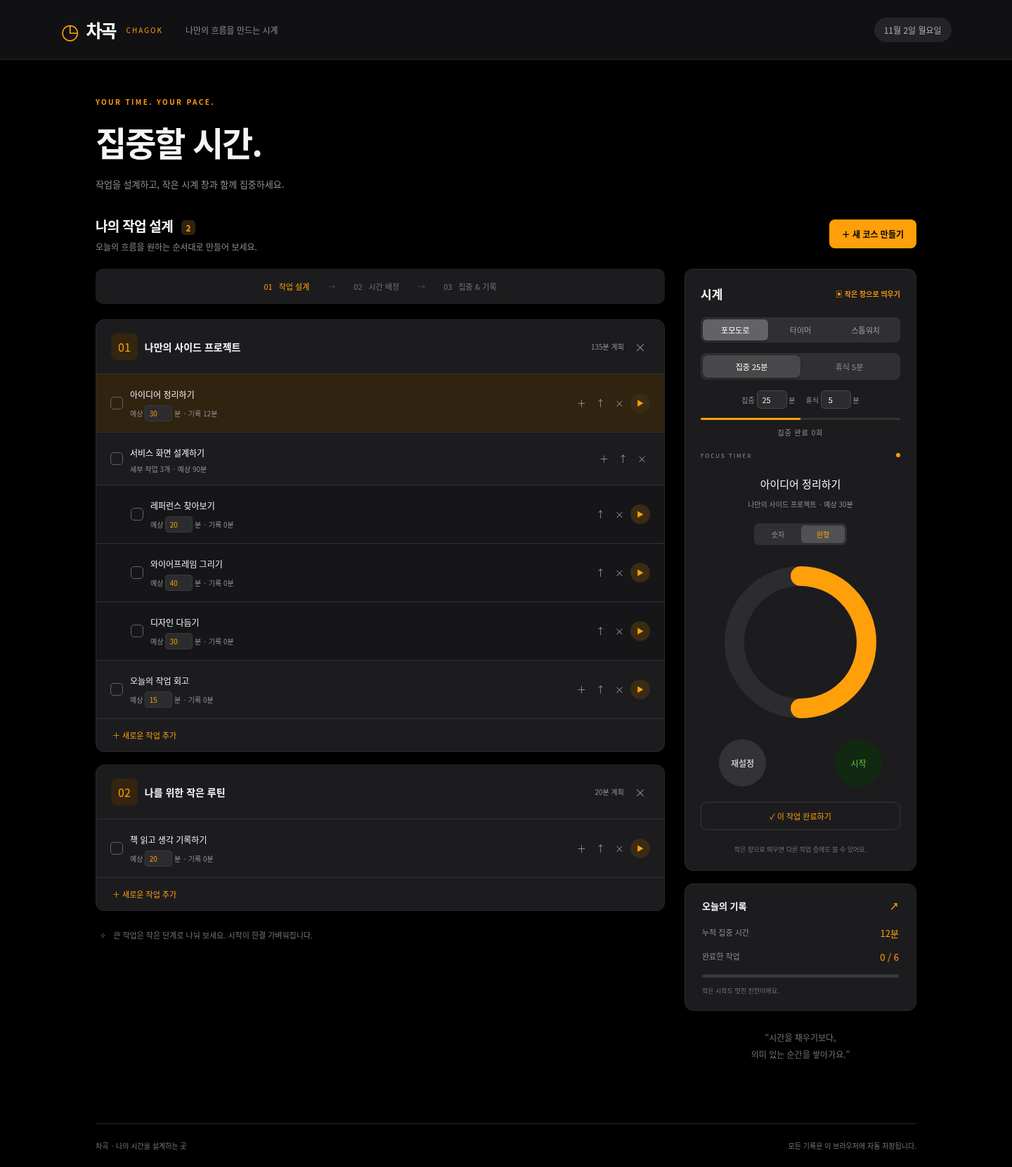
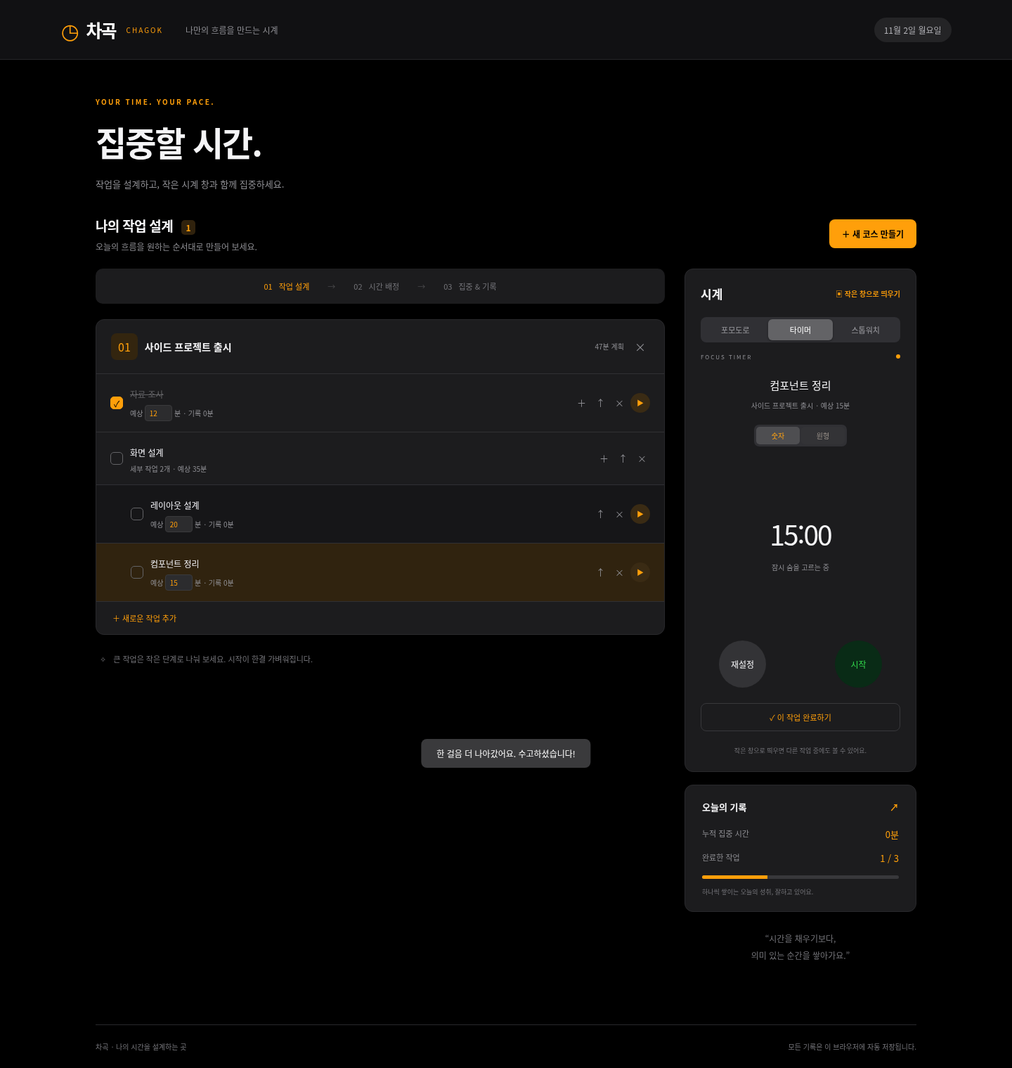
Make task planning and planned-duration execution the desktop default

diff --git a/app.js b/app.js
@@ -1,10 +1,10 @@
-import { createFloatingClock, updateRemainingRing } from './floating-window.js';
+import { createFloatingClock, updateRemainingRing, updateTaskPicker } from './floating-window.js';
 
 const $=s=>document.querySelector(s);
 let clockMode="pomodoro",floatingWindow=null;
 const uid=()=>crypto.randomUUID();
-const seed=()=>({courses:[{id:uid(),name:'나만의 사이드 프로젝트',tasks:[{id:uid(),name:'아이디어 정리하기',minutes:30,elapsed:0,done:false,children:[]},{id:uid(),name:'서비스 화면 설계하기',minutes:90,elapsed:0,done:false,children:[{id:uid(),name:'레퍼런스 찾아보기',minutes:20,elapsed:0,done:false,children:[]},{id:uid(),name:'와이어프레임 그리기',minutes:40,elapsed:0,done:false,children:[]},{id:uid(),name:'디자인 다듬기',minutes:30,elapsed:0,done:false,children:[]}]},{id:uid(),name:'오늘의 작업 회고',minutes:15,elapsed:0,done:false,children:[]}]},{id:uid(),name:'나를 위한 작은 루틴',tasks:[{id:uid(),name:'책 읽고 생각 기록하기',minutes:20,elapsed:0,done:false,children:[]}]}],active:null,started:null});
-let state;try{state=JSON.parse(localStorage.getItem('chagok-v1'))}catch{}if(!state?.courses)state=seed();
+let state;try{state=JSON.parse(localStorage.getItem('chagok-v1'))}catch{}if(!state?.courses)state={courses:[],active:null,started:null};
+clockMode=['timer','pomodoro','stopwatch'].includes(state.clockMode)?state.clockMode:(state.pomo?.started||state.pomo?.elapsed>0?'pomodoro':'timer');
 state.timerView = state.timerView === "circle" ? "circle" : "numeric";
 state.pomo ||= {phase:'focus',elapsed:0,started:null,rounds:0};
 state.pomo.focusMinutes ||= 25;state.pomo.breakMinutes ||= 5;
@@ -23,17 +23,18 @@ function pause(){if(state.pomo.started){state.pomo.elapsed=pomoSeconds();state.p
 function select(id){const t=find(id);if(t.children.length){toast('세부 작업을 선택해 주세요.');return}if(t.done){toast('완료 체크를 해제하면 다시 집중할 수 있어요.');return}pause();state.active=id;state.started=Date.now();if(clockMode==='pomodoro'){if(state.pomo.phase!=='focus'){state.pomo.phase='focus';state.pomo.elapsed=0}state.pomo.started=Date.now()}save();render()}
 function complete(id){const t=find(id);if(t.children.length){const done=!t.children.every(x=>x.done);if(t.children.some(x=>x.id===state.active))pause();t.children.forEach(x=>x.done=done);t.done=done}else{if(state.active===id)pause();t.done=!t.done}save();render()}
 function taskHTML(t,child=false){const done=t.children.length?t.children.every(x=>x.done):t.done;return `<div class="task ${child?'child':''} ${done?'done':''} ${state.active===t.id?'active':''}" data-id="${t.id}"><button class="check" data-action="done" aria-label="${done?'완료 해제':'작업 완료'}">${done?'✓':''}</button><div class="task-main"><input class="task-name" aria-label="작업 이름" value="${escape(t.name)}" maxlength="120"><div class="task-meta">${t.children.length?`세부 작업 ${t.children.length}개 · 예상 ${t.children.reduce((s,x)=>s+x.minutes,0)}분`:`예상 <input class="time-input" aria-label="예상 시간 (분)" type="number" min="1" max="1440" value="${t.minutes}"> 분 <span data-elapsed="${t.id}">· 기록 ${Math.floor(seconds(t)/60)}분</span>`}</div></div><div class="task-tools">${!child?'<button class="muted-button" data-action="child" title="세부 작업 추가" aria-label="세부 작업 추가">＋</button>':''}<button class="muted-button" data-action="up" title="위로 이동" aria-label="위로 이동">↑</button><button class="muted-button" data-action="delete" title="작업 삭제" aria-label="작업 삭제">×</button>${!t.children.length?'<button class="task-play" data-action="play" aria-label="이 작업에 집중하기">▶</button>':''}</div></div>${t.children.map(x=>taskHTML(x,true)).join('')}`}
-function render(){$('#course-count').textContent=state.courses.length;$('#courses').innerHTML=state.courses.map((c,i)=>`<article class="course" data-course="${c.id}"><div class="course-heading"><span class="course-icon">${String(i+1).padStart(2,'0')}</span><h3>${escape(c.name)}</h3><small>${c.tasks.reduce((s,t)=>s+(t.children.length?t.children.reduce((a,x)=>a+x.minutes,0):t.minutes),0)}분 계획</small><button class="muted-button" data-action="delete-course" aria-label="코스 삭제">×</button></div>${c.tasks.map(t=>taskHTML(t)).join('')}<button class="add-task" data-action="add">＋ 새로운 작업 추가</button></article>`).join('')||'<div class="empty">새 코스를 만들고 첫 작업을 설계해 보세요.</div>';updateTimer()}
-function updateBaseTimer(){const t=active();if(t&&state.started&&clockMode==='timer'&&seconds(t)>=t.minutes*60){pause();toast('설정한 시간이 끝났어요. 수고하셨습니다!');}$('#focus-name').textContent=t?t.name:'집중할 작업을 선택하세요';const c=state.courses.find(c=>c.tasks.some(x=>x.id===t?.id||x.children.some(a=>a.id===t?.id)));$('#focus-course').textContent=c?`${c.name} · 예상 ${t.minutes}분`:'작업 옆 재생 버튼을 눌러 시작하세요';$('#timer').textContent=format(t?(clockMode==='timer'?Math.max(0,t.minutes*60-seconds(t)):seconds(t)):0);$('#timer-state').textContent=state.started?'나만의 속도로 집중하는 중':t?.done?'잘 해냈어요!':t?(clockMode==='timer'&&seconds(t)>=t.minutes*60?'타이머 종료':'잠시 숨을 고르는 중'):'준비되셨나요?';$('#toggle').textContent=state.started?'일시 정지':'시작';$('#toggle').classList.toggle('running',Boolean(state.started));const tasks=leaves(),done=tasks.filter(t=>t.done).length;$('#done-count').textContent=`${done} / ${tasks.length}`;$('#total-time').textContent=`${Math.floor(all().reduce((s,t)=>s+seconds(t),0)/60)}분`;$('#progress').style.width=`${tasks.length?done/tasks.length*100:0}%`;$('#encouragement').textContent=done?'하나씩 쌓이는 오늘의 성취, 잘하고 있어요.':'작은 시작도 멋진 진전이에요.';document.querySelectorAll('[data-elapsed]').forEach(el=>el.textContent=`· 기록 ${Math.floor(seconds(find(el.dataset.elapsed))/60)}분`);}
-$('#courses').addEventListener('click',e=>{const b=e.target.closest('button');if(!b)return;const c=state.courses.find(x=>x.id===b.closest('[data-course]').dataset.course),id=b.closest('[data-id]')?.dataset.id,t=find(id);switch(b.dataset.action){case'add':c.tasks.push({id:uid(),name:'새로운 작업',minutes:25,elapsed:0,done:false,children:[]});break;case'child':if(state.active===id)pause();t.children.push({id:uid(),name:'새로운 세부 작업',minutes:15,elapsed:0,done:false,children:[]});t.done=false;break;case'play':select(id);return;case'done':complete(id);return;case'up':{const list=c.tasks.includes(t)?c.tasks:c.tasks.find(p=>p.children.includes(t)).children;const i=list.indexOf(t);if(i>0)[list[i-1],list[i]]=[list[i],list[i-1]];break}case'delete':if(!confirm('이 작업과 기록을 삭제할까요?'))return;if(state.active===id||t.children.some(x=>x.id===state.active)){pause();state.active=null}c.tasks=c.tasks.filter(x=>x.id!==id);c.tasks.forEach(x=>x.children=x.children.filter(y=>y.id!==id));break;case'delete-course':if(!confirm('코스와 모든 작업 기록을 삭제할까요?'))return;if(c.tasks.some(x=>x.id===state.active||x.children.some(y=>y.id===state.active))){pause();state.active=null}state.courses=state.courses.filter(x=>x.id!==c.id);break;default:return}save();render();if(['add','child'].includes(b.dataset.action)){const inputs=$('#courses').querySelectorAll(`[data-course="${c.id}"] .task-name`);const input=b.dataset.action==='child'?$(`[data-id="${t.children.at(-1).id}"] .task-name`):inputs[inputs.length-1];input.focus();input.select()}});
+let rendering=false;
+function render(){if(rendering)return;rendering=true;try{const focused=document.activeElement;if(focused?.closest('#courses'))focused.blur();$('#course-count').textContent=state.courses.length;$('#courses').innerHTML=state.courses.map((c,i)=>`<article class="course" data-course="${c.id}"><div class="course-heading"><span class="course-icon">${String(i+1).padStart(2,'0')}</span><h3>${escape(c.name)}</h3><small>${c.tasks.reduce((s,t)=>s+(t.children.length?t.children.reduce((a,x)=>a+x.minutes,0):t.minutes),0)}분 계획</small><button class="muted-button" data-action="delete-course" aria-label="코스 삭제">×</button></div>${c.tasks.map(t=>taskHTML(t)).join('')}<button class="add-task" data-action="add">＋ 새로운 작업 추가</button></article>`).join('')||'<div class="empty">새 코스를 만들고 첫 작업을 설계해 보세요.</div>';updateTimer()}finally{rendering=false}}
+function updateBaseTimer(){const t=active();if(t&&state.started&&clockMode==='timer'&&seconds(t)>=t.minutes*60){pause();toast('설정한 시간이 끝났어요. 수고하셨습니다!');}$('#focus-name').textContent=t?t.name:'집중할 작업을 선택하세요';const c=state.courses.find(c=>c.tasks.some(x=>x.id===t?.id||x.children.some(a=>a.id===t?.id)));$('#focus-course').textContent=c?`${c.name} · 예상 ${t.minutes}분`:'작업 옆 재생 버튼을 눌러 시작하세요';const displaySeconds=t?(clockMode==='timer'?Math.ceil(Math.max(0,t.minutes*60-seconds(t))):seconds(t)):0;$('#timer').textContent=clockMode==='timer'&&displaySeconds<3600?format(displaySeconds).slice(3):format(displaySeconds);$('#timer-state').textContent=state.started?'나만의 속도로 집중하는 중':t?.done?'잘 해냈어요!':t?(clockMode==='timer'&&seconds(t)>=t.minutes*60?'타이머 종료':'잠시 숨을 고르는 중'):'준비되셨나요?';$('#toggle').textContent=state.started?'일시 정지':'시작';$('#toggle').classList.toggle('running',Boolean(state.started));const tasks=leaves(),done=tasks.filter(t=>t.done).length;$('#done-count').textContent=`${done} / ${tasks.length}`;$('#total-time').textContent=`${Math.floor(all().reduce((s,t)=>s+seconds(t),0)/60)}분`;$('#progress').style.width=`${tasks.length?done/tasks.length*100:0}%`;$('#encouragement').textContent=done?'하나씩 쌓이는 오늘의 성취, 잘하고 있어요.':'작은 시작도 멋진 진전이에요.';document.querySelectorAll('[data-elapsed]').forEach(el=>el.textContent=`· 기록 ${Math.floor(seconds(find(el.dataset.elapsed))/60)}분`);}
+$('#courses').addEventListener('click',e=>{const b=e.target.closest('button');if(!b)return;const c=state.courses.find(x=>x.id===b.closest('[data-course]').dataset.course),id=b.closest('[data-id]')?.dataset.id,t=find(id);switch(b.dataset.action){case'add':c.tasks.push({id:uid(),name:'새로운 작업',minutes:25,elapsed:0,done:false,children:[]});break;case'child':if(state.active===id)pause();t.children.push({id:uid(),name:'새로운 세부 작업',minutes:15,elapsed:0,done:false,children:[]});t.done=false;break;case'play':startPlannedTask(id);return;case'done':complete(id);return;case'up':{const list=c.tasks.includes(t)?c.tasks:c.tasks.find(p=>p.children.includes(t)).children;const i=list.indexOf(t);if(i>0)[list[i-1],list[i]]=[list[i],list[i-1]];break}case'delete':if(!confirm('이 작업과 기록을 삭제할까요?'))return;if(state.active===id||t.children.some(x=>x.id===state.active)){pause();state.active=null}c.tasks=c.tasks.filter(x=>x.id!==id);c.tasks.forEach(x=>x.children=x.children.filter(y=>y.id!==id));break;case'delete-course':if(!confirm('코스와 모든 작업 기록을 삭제할까요?'))return;if(c.tasks.some(x=>x.id===state.active||x.children.some(y=>y.id===state.active))){pause();state.active=null}state.courses=state.courses.filter(x=>x.id!==c.id);break;default:return}save();render();if(['add','child'].includes(b.dataset.action)){const inputs=$('#courses').querySelectorAll(`[data-course="${c.id}"] .task-name`);const input=b.dataset.action==='child'?$(`[data-id="${t.children.at(-1).id}"] .task-name`):inputs[inputs.length-1];input.focus();input.select()}});
 $('#courses').addEventListener('change',e=>{const row=e.target.closest('[data-id]');if(!row)return;const t=find(row.dataset.id);if(e.target.matches('.task-name'))t.name=e.target.value.trim()||'이름 없는 작업';if(e.target.matches('.time-input'))t.minutes=Math.min(1440,Math.max(1,Number(e.target.value)||1));save();render()});
-$('#toggle').onclick=()=>{if(state.started){pause();render();return}let t=active();if(!t||t.done||t.children.length)t=leaves().find(x=>!x.done);if(!t){toast('집중할 작업을 먼저 추가해 주세요.');return}if(clockMode==='timer'&&seconds(t)>=t.minutes*60){toast('타이머가 종료됐어요. 재설정하거나 스톱워치로 전환해 주세요.');return}select(t.id)};
+$('#toggle').onclick=()=>{if(state.started){pause();render();return}let t=active();if(!t||t.done||t.children.length)t=leaves().find(x=>!x.done);if(!t){openPlanner();toast('새 코스를 만들고 집중할 작업을 추가해 주세요.');return}if(clockMode==='timer'&&seconds(t)>=t.minutes*60){toast('타이머가 종료됐어요. 재설정하거나 스톱워치로 전환해 주세요.');return}select(t.id)};
 $('#complete').onclick=()=>{const t=active();if(!t){toast('먼저 집중할 작업을 선택해 주세요.');return}if(t.done){toast('이미 완료한 작업이에요.');return}complete(t.id);toast('한 걸음 더 나아갔어요. 수고하셨습니다!');const next=leaves().find(x=>!x.done);state.active=next?.id||null;save();render()};
 $('#reset').onclick=()=>{if(!active())return;if(!confirm('현재 작업의 측정 시간을 초기화할까요?'))return;pause();active().elapsed=0;save();render()};
 $('#add-course').onclick=()=>{$('#course-dialog').showModal();$('#course-title').focus()};$('#cancel-dialog').onclick=()=>$('#course-dialog').close();$('#course-form').onsubmit=e=>{e.preventDefault();const name=$('#course-title').value.trim();if(!name)return;state.courses.push({id:uid(),name,tasks:[]});save();render();$('#course-form').reset();$('#course-dialog').close()};
 $('#date').textContent=new Intl.DateTimeFormat('ko-KR',{month:'long',day:'numeric',weekday:'long'}).format(new Date());render();setInterval(updateTimer,500);
 
-function setMode(mode){pause();clockMode=mode;$('#mode-pomodoro').classList.toggle('tab-active',mode==='pomodoro');$('#pomo-controls').hidden=mode!=='pomodoro';$('#mode-timer').classList.toggle('tab-active',mode==='timer');$('#mode-stopwatch').classList.toggle('tab-active',mode==='stopwatch');updateTimer()}
+function setMode(mode){pause();clockMode=mode;state.clockMode=mode;save();$('#mode-pomodoro').classList.toggle('tab-active',mode==='pomodoro');$('#pomo-controls').hidden=mode!=='pomodoro';$('#mode-timer').classList.toggle('tab-active',mode==='timer');$('#mode-stopwatch').classList.toggle('tab-active',mode==='stopwatch');updateTimer()}
 $('#mode-pomodoro').onclick=()=>setMode('pomodoro');
 $('#mode-timer').onclick=()=>setMode('timer');
 $('#mode-stopwatch').onclick=()=>setMode('stopwatch');
@@ -46,6 +47,10 @@ function syncFloating(){
  }
  for(const id of ['focus-minutes','break-minutes']){const input=doc.getElementById('mini-'+id);if(input&&doc.activeElement!==input)input.value=document.getElementById(id).value;}
  doc.body.dataset.phase=state.pomo.phase;
+ doc.body.dataset.clockMode=clockMode;
+ for(const mode of ['timer','pomodoro']){const button=doc.getElementById('mini-mode-'+mode);button.classList.toggle('selected',clockMode===mode);button.setAttribute('aria-pressed',String(clockMode===mode));}
+ updateTaskPicker(doc,state.courses,state.active);
+ doc.getElementById('mini-task-picker-toggle').textContent=`작업 목록 ${leaves().filter(t=>!t.done).length} ▾`;
  doc.body.dataset.timerView=effectiveTimerView();
  for(const view of ['numeric','circle'])doc.getElementById('mini-view-'+view).setAttribute('aria-pressed',String(effectiveTimerView()===view));
  doc.getElementById('mini-view-circle').disabled=clockMode==='stopwatch';
@@ -68,7 +73,8 @@ $('#float-timer').onclick=async()=>{
     onAction: id => { document.getElementById(id).click(); syncFloating(); },
     onDurationChange: (id, value) => { setPomoMinutes(id, value); syncFloating(); },
     onViewChange: view => setTimerView(view),
-    onOpenPlanner: window.desktopClock?.isDesktop ? () => window.desktopClock.showPlanner() : undefined
+    onOpenPlanner: openPlanner,
+    onSelectTask: id => startPlannedTask(id)
   });
   syncFloating();
   if(!pinned&&!window.desktopClock?.isDesktop)toast('별도 창을 열었어요. 항상 위 고정은 데스크톱 Chrome·Edge에서 지원됩니다.');
@@ -85,7 +91,7 @@ function updateTimer(){
  $('#pomo-count').textContent=`집중 완료 ${p.rounds}회`;
  $('#pomo-progress').style.width=`${Math.min(100,pomoSeconds()/pomoDuration()*100)}%`;
  if(clockMode==='pomodoro'){
-  const remaining=Math.max(0,pomoDuration()-pomoSeconds());$('#timer').textContent=`${String(Math.floor(remaining/60)).padStart(2,'0')}:${String(Math.floor(remaining)%60).padStart(2,'0')}`;$('#timer-state').textContent=isFocus?(p.started?'지금은 집중하는 시간':`${p.focusMinutes}분, 한 가지에만 집중하세요`):(p.started?'잠시 쉬어가세요':`${p.breakMinutes}분 휴식 준비`);$('#toggle').textContent=p.started?'일시 정지':'시작';$('#toggle').classList.toggle('running',Boolean(p.started));if(!isFocus){$('#focus-name').textContent='잠깐의 쉼, 다음 집중을 위해';$('#focus-course').textContent='스트레칭하거나 물 한 잔 마셔보세요.'}
+  const remaining=Math.ceil(Math.max(0,pomoDuration()-pomoSeconds()));$('#timer').textContent=`${String(Math.floor(remaining/60)).padStart(2,'0')}:${String(Math.floor(remaining)%60).padStart(2,'0')}`;$('#timer-state').textContent=isFocus?(p.started?'지금은 집중하는 시간':`${p.focusMinutes}분, 한 가지에만 집중하세요`):(p.started?'잠시 쉬어가세요':`${p.breakMinutes}분 휴식 준비`);$('#toggle').textContent=p.started?'일시 정지':'시작';$('#toggle').classList.toggle('running',Boolean(p.started));if(!isFocus){$('#focus-name').textContent='잠깐의 쉼, 다음 집중을 위해';$('#focus-course').textContent='스트레칭하거나 물 한 잔 마셔보세요.'}
  }
  updateTimerView();
  syncFloating();
@@ -130,5 +136,16 @@ function setTimerView(view){
 $('#view-numeric').onclick=()=>setTimerView('numeric');
 $('#view-circle').onclick=()=>setTimerView('circle');
 
-// The desktop controller opens its compact native clock on launch.
-if(window.desktopClock?.isDesktop)queueMicrotask(()=>$('#float-timer').click());
+function openPlanner(){
+ if(window.desktopClock?.isDesktop)window.desktopClock.showPlanner();
+ else window.focus();
+ document.querySelector('.workspace-head').scrollIntoView({block:'start'});
+}
+function startPlannedTask(id){setMode('timer');select(id)}
+// Reflect the persisted mode without pausing an ongoing session on startup.
+for(const mode of ['timer','pomodoro','stopwatch'])$('#mode-'+mode).classList.toggle('tab-active',clockMode===mode);
+$('#pomo-controls').hidden=clockMode!=='pomodoro';
+if(window.desktopClock?.isDesktop)queueMicrotask(()=>{
+ if(!leaves().length)openPlanner();
+ $('#float-timer').click();
+});

diff --git a/floating-window.js b/floating-window.js
@@ -52,7 +52,7 @@ button { border: 0; }
   letter-spacing: -2.5px; font-weight: 200; font-variant-numeric: tabular-nums;
   white-space: nowrap; text-align: left;
 }
-body[data-long-time="true"] #mini-timer { font-size: 46px; letter-spacing: -2px; }
+body[data-long-time="true"] #mini-timer { font-size: 40px; letter-spacing: -2px; }
 #mini-timer-state { margin-top: 7px; font-size: 10px; line-height: 14px; color: var(--muted); }
 .pomo-track { margin-top: auto; height: 2px; background: #303033; border-radius: 2px; flex-shrink: 0; overflow: hidden; }
 #mini-pomo-progress { height: 100%; background: var(--accent); }
@@ -92,6 +92,27 @@ body[data-timer-view="circle"] #mini-timer-state { display: none; }
 .settings-panel label { display: flex; align-items: center; gap: 8px; margin-top: 10px; color: #b4b4ba; font-size: 11px; }
 .settings-panel label span { flex: 1; }
 .settings-panel input { min-width: 0; width: 50px; padding: 4px; background: #333336; color: #fff; border: 1px solid #505054; border-radius: 5px; text-align: center; font-size: 12px; }
+.task-footer { display:flex;align-items:center;justify-content:space-between;gap:8px; }
+.task-footer button { padding:0;background:none;color:var(--accent);font-size:9px;line-height:12px; }
+body[data-clock-mode="timer"] #mini-pomo-count { visibility:hidden; }
+.settings-panel { top:54px;padding:12px; }
+.settings-heading { margin-bottom:8px; }
+.settings-phase { display:flex;gap:4px; }
+.settings-phase button { flex:1;padding:4px 0;border-radius:5px;background:#333336;color:#999;font-size:9px; }
+.settings-phase .selected { background:#515154;color:var(--accent); }
+.task-picker { position:absolute;z-index:3;inset:60px 24px 16px;background:#242426;border:1px solid #49494c;border-radius:10px;display:flex;flex-direction:column;box-shadow:0 8px 24px #0008;overflow:hidden; }
+.picker-heading { display:flex;align-items:center;gap:12px;padding:9px 12px;border-bottom:1px solid #39393c;flex-shrink:0; }
+.picker-heading strong { flex:1;font-size:11px;font-weight:500; }
+.picker-heading button { background:none;color:var(--accent);font-size:10px;padding:0; }
+#mini-picker-close { color:#999;font-size:16px; }
+#mini-task-list { overflow:auto;min-height:0;padding:4px 0; }
+.picker-course { margin:6px 12px 3px;font-size:9px;color:#8e8e93; }
+.picker-task { display:flex;align-items:center;justify-content:space-between;gap:12px;width:100%;text-align:left;padding:7px 12px;background:none;color:#ddd;font-size:11px; }
+.picker-task:hover,.picker-task[aria-current="true"] { background:#3b3020; }
+.picker-task:disabled { color:#747479;cursor:default; }
+.picker-task span:first-child { overflow:hidden;text-overflow:ellipsis;white-space:nowrap; }
+.picker-task small { flex-shrink:0;color:#999;font-size:9px; }
+.picker-empty { color:#999;font-size:11px;margin:12px; }
 @media (max-width: 459px) {
   body { padding: 20px; }
   .clock-layout { grid-template-columns: 40% minmax(0, 1fr); column-gap: 24px; }
@@ -116,8 +137,8 @@ const markup = `
     </div>
   </div>
   <div class="pomo-tabs" role="group" aria-label="집중 또는 휴식">
-    <button id="mini-pomo-focus">집중</button>
-    <button id="mini-pomo-break">휴식</button>
+    <button id="mini-mode-timer">작업 타이머</button>
+    <button id="mini-mode-pomodoro">포모도로</button>
   </div>
   <section class="readout" aria-label="남은 시간">
     <svg class="timer-dial" viewBox="0 0 114 114" aria-hidden="true"><circle class="dial-track" cx="57" cy="57" r="46"/><circle class="dial-remaining" id="mini-dial-remaining" cx="57" cy="57" r="46" pathLength="100" stroke-dasharray="100" stroke-dashoffset="0"/></svg>
@@ -134,16 +155,21 @@ const markup = `
       <button id="mini-toggle" class="primary">시작</button>
       <button id="mini-complete">완료</button>
     </div>
-    <p id="mini-pomo-count"></p>
+<div class="task-footer"><button id="mini-task-picker-toggle" aria-expanded="false" aria-controls="mini-task-picker">작업 목록 ▾</button><p id="mini-pomo-count"></p></div>
   </section>
 </main>
 <section class="settings-panel" id="mini-settings" aria-label="포모도로 시간 설정" hidden>
-  <div class="settings-heading"><strong>시간 설정</strong><button id="mini-settings-done">완료</button></div>
+  <div class="settings-heading"><strong>포모도로 시간</strong><button id="mini-settings-done">완료</button></div>
+  <div class="settings-phase" role="group" aria-label="포모도로 단계"><button id="mini-pomo-focus">집중</button><button id="mini-pomo-break">휴식</button></div>
   <label><span>집중</span><input id="mini-focus-minutes" type="number" min="1" max="180" aria-label="집중 시간"> 분</label>
   <label><span>휴식</span><input id="mini-break-minutes" type="number" min="1" max="180" aria-label="휴식 시간"> 분</label>
+</section>
+<section class="task-picker" id="mini-task-picker" aria-label="계획한 작업 목록" hidden>
+  <div class="picker-heading"><strong>계획한 작업</strong><button id="mini-picker-plan">추가·설계 ↗</button><button id="mini-picker-close" aria-label="작업 목록 닫기">×</button></div>
+  <div id="mini-task-list"></div>
 </section>`;
 
-export function createFloatingClock(doc, { onAction, onDurationChange, onViewChange, onOpenPlanner }) {
+export function createFloatingClock(doc, { onAction, onDurationChange, onViewChange, onOpenPlanner, onSelectTask }) {
   doc.documentElement.lang = 'ko';
   doc.head.innerHTML = '<meta name="viewport" content="width=device-width,initial-scale=1"><title>차곡 · 시계</title>';
   const style = doc.createElement('style');
@@ -153,9 +179,17 @@ export function createFloatingClock(doc, { onAction, onDurationChange, onViewCha
 
   if (onOpenPlanner) {
     const title = doc.querySelector('.time-heading h1');
-    title.innerHTML = '<button title="작업 설계 열기" aria-label="작업 설계 열기">타이머 ↗</button>';
+    title.innerHTML = '<button title="코스와 세부 작업 설계" aria-label="작업 설계 열기">작업 설계 ↗</button>';
     title.firstElementChild.onclick = onOpenPlanner;
   }
+
+  const picker = doc.getElementById('mini-task-picker');
+  const pickerTrigger = doc.getElementById('mini-task-picker-toggle');
+  const closePicker = () => { picker.hidden=true;pickerTrigger.setAttribute('aria-expanded','false'); };
+  pickerTrigger.onclick = () => { picker.hidden=!picker.hidden;pickerTrigger.setAttribute('aria-expanded',String(!picker.hidden));doc.getElementById('mini-settings').hidden=true; };
+  doc.getElementById('mini-picker-close').onclick = closePicker;
+  doc.getElementById('mini-picker-plan').onclick = () => { closePicker();onOpenPlanner?.(); };
+  doc.getElementById('mini-task-list').onclick = event => {const button=event.target.closest('[data-task-id]');if(button){closePicker();onSelectTask(button.dataset.taskId)}};
 
   const panel = doc.getElementById('mini-settings');
   const trigger = doc.getElementById('mini-settings-toggle');
@@ -164,15 +198,15 @@ export function createFloatingClock(doc, { onAction, onDurationChange, onViewCha
     trigger.setAttribute('aria-expanded', String(open));
     if (!open) trigger.focus();
   };
-  trigger.onclick = () => setSettingsOpen(panel.hidden);
+  trigger.onclick = () => {closePicker();setSettingsOpen(panel.hidden)};
   doc.getElementById('mini-settings-done').onclick = () => setSettingsOpen(false);
   doc.addEventListener('keydown', event => {
-    if (event.key === 'Escape' && !panel.hidden) setSettingsOpen(false);
+    if (event.key === 'Escape'){closePicker();if(!panel.hidden)setSettingsOpen(false);}
   });
   doc.addEventListener('click', event => {
     if (!panel.hidden && !panel.contains(event.target) && !trigger.contains(event.target)) setSettingsOpen(false);
   });
-  for (const id of ['toggle', 'reset', 'complete', 'pomo-focus', 'pomo-break']) {
+  for (const id of ['toggle', 'reset', 'complete', 'pomo-focus', 'pomo-break', 'mode-timer', 'mode-pomodoro']) {
     doc.getElementById('mini-' + id).onclick = () => onAction(id);
   }
   for (const view of ['numeric', 'circle']) {
@@ -188,4 +222,25 @@ export function updateRemainingRing(element, fraction) {
   const remaining = Math.max(0, Math.min(1, fraction));
   element.setAttribute('stroke-dashoffset', String(100 * (1 - remaining)));
   element.setAttribute('visibility', remaining === 0 ? 'hidden' : 'visible');
+}
+
+const pickerSignatures = new WeakMap();
+export function updateTaskPicker(doc, courses, activeId) {
+  const signature=JSON.stringify([courses.map(c=>[c.id,c.name,c.tasks.map(t=>[t.id,t.name,t.minutes,t.done,t.children.map(x=>[x.id,x.name,x.minutes,x.done])])]),activeId]);
+  if(pickerSignatures.get(doc)===signature)return;
+  pickerSignatures.set(doc,signature);
+  const list=doc.getElementById('mini-task-list');list.replaceChildren();
+  let count=0;
+  for(const course of courses){
+    const tasks=course.tasks.flatMap(t=>t.children.length?t.children.map(child=>({...child,name:t.name+' › '+child.name})):[t]);
+    if(!tasks.length)continue;
+    const title=doc.createElement('p');title.className='picker-course';title.textContent=course.name;list.append(title);
+    for(const task of tasks){
+      count++;
+      const button=doc.createElement('button');button.className='picker-task';button.dataset.taskId=task.id;button.disabled=task.done;button.setAttribute('aria-current',String(task.id===activeId));
+      const name=doc.createElement('span');name.textContent=(task.done?'✓ ':'')+task.name;
+      const estimate=doc.createElement('small');estimate.textContent=task.minutes+'분';button.append(name,estimate);list.append(button);
+    }
+  }
+  if(!count){const p=doc.createElement('p');p.className='picker-empty';p.textContent='추가·설계에서 코스와 작업을 만들어 주세요.';list.append(p)}
 }

diff --git a/README.md b/README.md
@@ -15,10 +15,10 @@
 
 ## Windows에서 바로 실행
 
-[Windows EXE 다운로드 페이지](https://github.com/jeongseul1116/new_time/releases/tag/windows-latest)에서 **Chagok-1.0.0-Windows.exe**를 다운로드하고 더블클릭하세요. Node.js나 터미널이 필요 없는 Windows 10/11 64비트용 포터블 앱입니다.
+[Windows EXE 다운로드 페이지](https://github.com/jeongseul1116/new_time/releases/tag/windows-latest)에서 **Chagok-1.1.0-Windows.exe**를 다운로드하고 더블클릭하세요. Node.js나 터미널이 필요 없는 Windows 10/11 64비트용 포터블 앱입니다. 업데이트할 때는 기존 차곡 앱을 완전히 종료한 뒤 새 EXE를 실행하세요. 저장된 작업과 기록은 유지됩니다.
 
-- 실행하면 480×210 작은 시계 창이 바로 열리고 항상 위에 표시됩니다.
-- 왼쪽 **타이머 ↗**를 누르면 코스와 작업을 설계하는 화면을 엽니다.
+- 실행하면 480×210 작은 시계 창이 열리고 항상 위에 표시됩니다. 저장된 작업이 없으면 작업 설계 화면도 함께 열립니다.
+- 작은 창 왼쪽의 **작업 설계 ↗**를 누르면 코스와 작업을 만들고 세부 작업·예상 시간을 입력할 수 있습니다. **작업 목록**에서 실행할 작업을 선택하면 해당 예상 시간으로 타이머가 시작됩니다. 포모도로는 별도 모드로 선택합니다.
 - 집중·휴식 시간과 기록은 PC의 앱 데이터에 자동 저장됩니다.
 - 처음 실행할 때는 GitHub EXE의 압축 해제와 초기화에 잠시 시간이 걸릴 수 있습니다.
 
@@ -45,6 +45,10 @@ npm start
 
 ![작은 시계 창](screenshots/chagok-floating.png)
 
+**작업 목록**을 누르면 계획한 작업과 예상 시간을 확인하고 실행할 작업을 고를 수 있습니다. 편집은 **작업 설계 ↗**에서 진행합니다.
+
+![계획한 작업 선택](screenshots/chagok-task-picker.png)
+
 ## 포모도로
 
 기본 집중 25분·휴식 5분으로 시작합니다. 본 화면과 작은 창에서 각각 1~180분으로 설정할 수 있으며 브라우저에 자동 저장됩니다. 현재 단계의 시간을 바꾸면 측정을 멈추고 해당 세션을 초기화하며, 누적 작업 시간은 유지합니다. 집중 종료 시 완료 횟수를 기록하고 휴식 준비로 전환합니다. 다음 단계는 시작 버튼을 눌러 진행합니다. 휴식은 작업 집중 시간에 포함되지 않습니다.
@@ -67,6 +71,6 @@ npm run desktop
 npm run dist:win
 ```
 
-`release/Chagok-1.0.0-Windows.exe`에 포터블 실행 파일을 생성합니다. 앱 소스는 Electron의 격리된 렌더러에서 실행하며 런타임을 함께 패키징합니다. GitHub Actions의 **Build Windows EXE** 워크플로가 Windows에서 빌드하고 `windows-latest` 릴리스에 EXE를 올립니다.
+`release/Chagok-1.1.0-Windows.exe`에 포터블 실행 파일을 생성합니다. 앱 소스는 Electron의 격리된 렌더러에서 실행하며 런타임을 함께 패키징합니다. GitHub Actions의 **Build Windows EXE** 워크플로가 Windows에서 빌드하고 `windows-latest` 릴리스에 EXE를 올립니다.
 
 현재 EXE는 코드 서명 인증서가 없는 빌드입니다. Windows에서 게시자 확인 경고가 표시될 수 있습니다.
